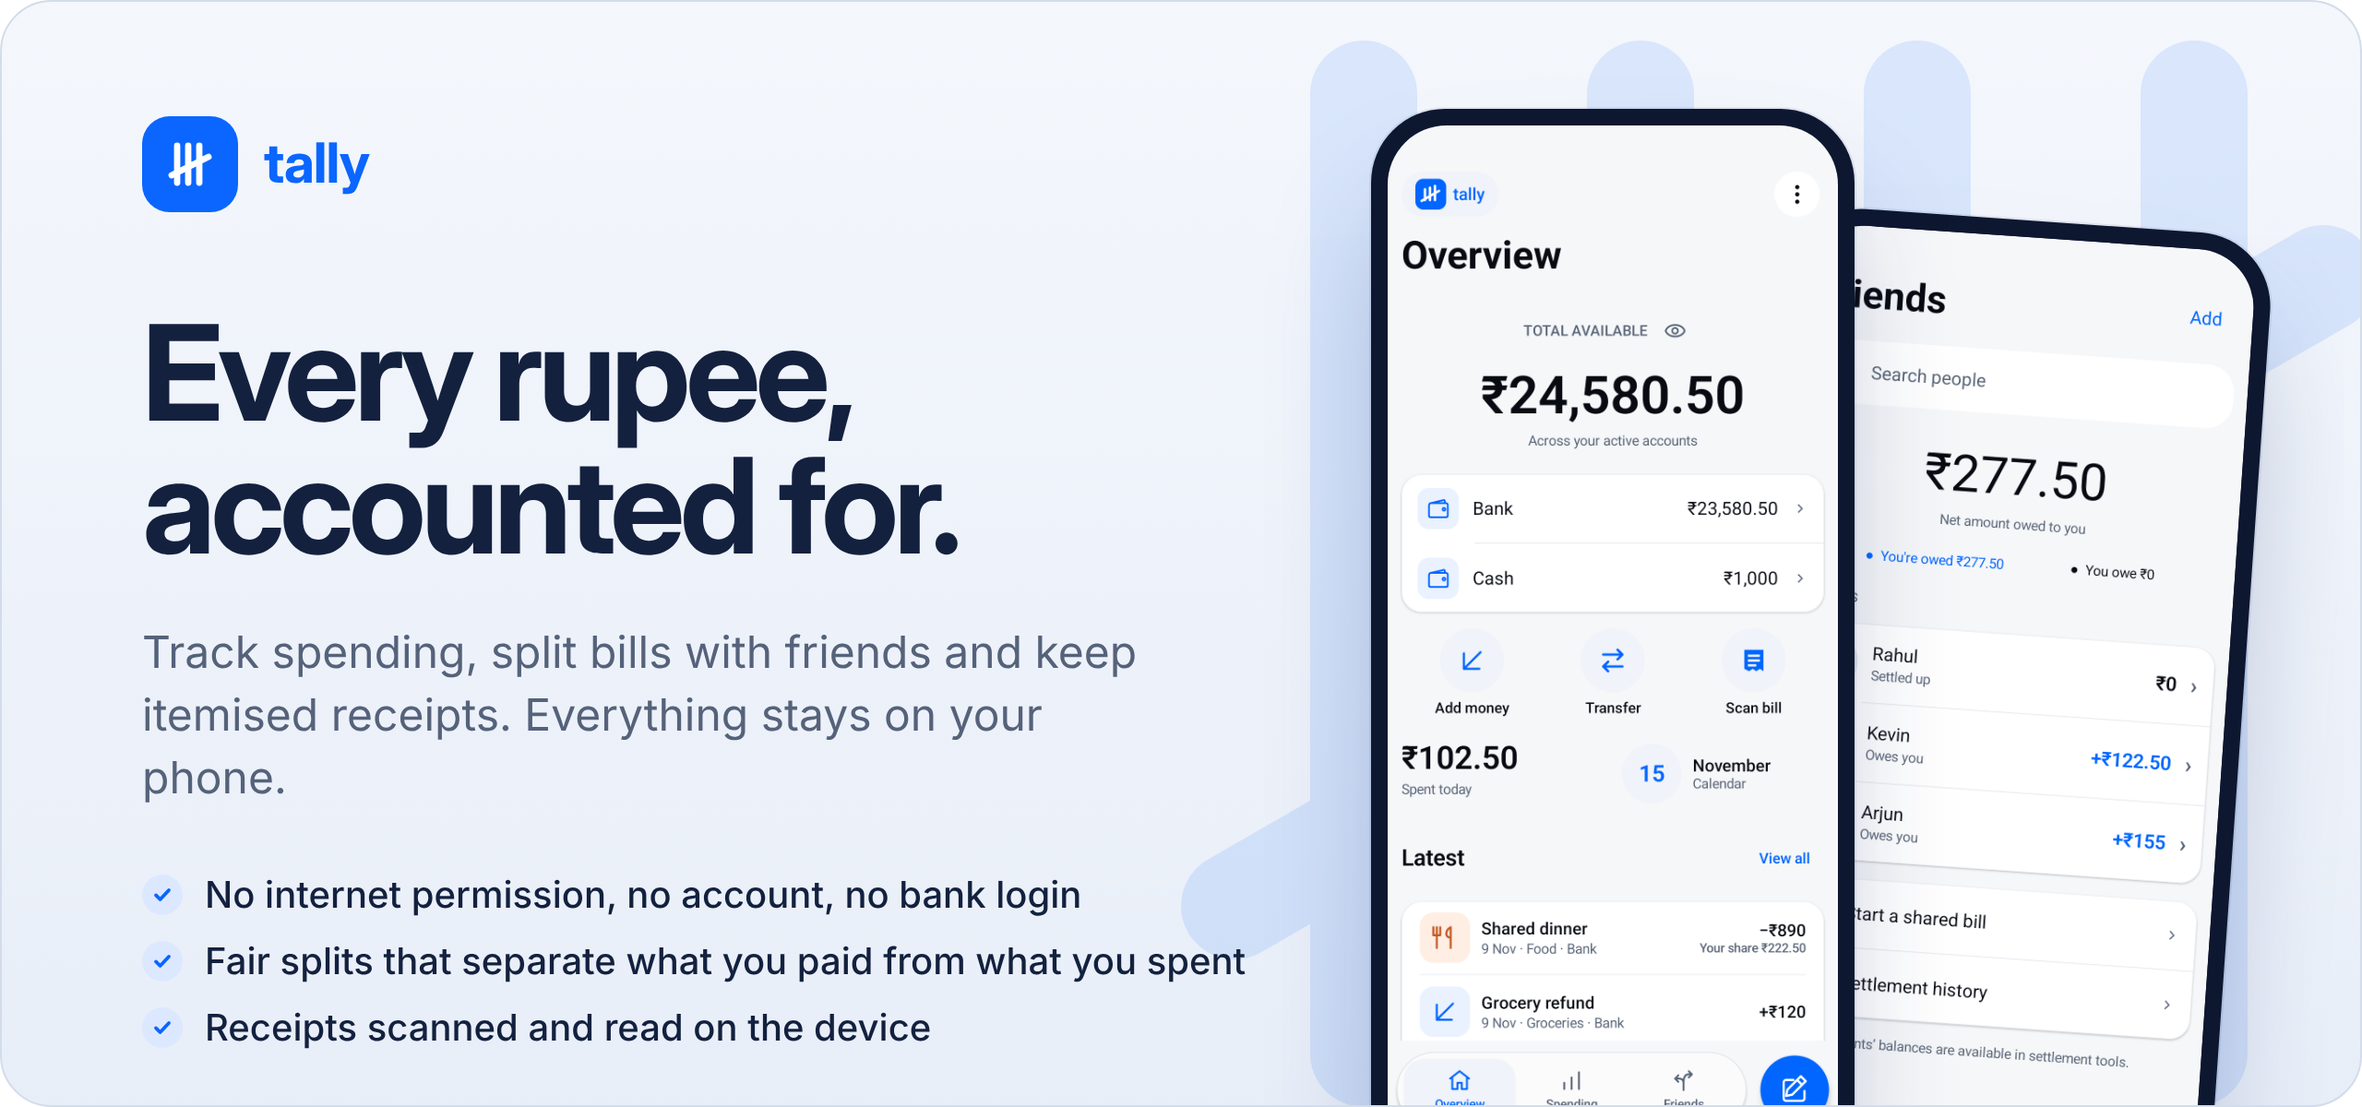
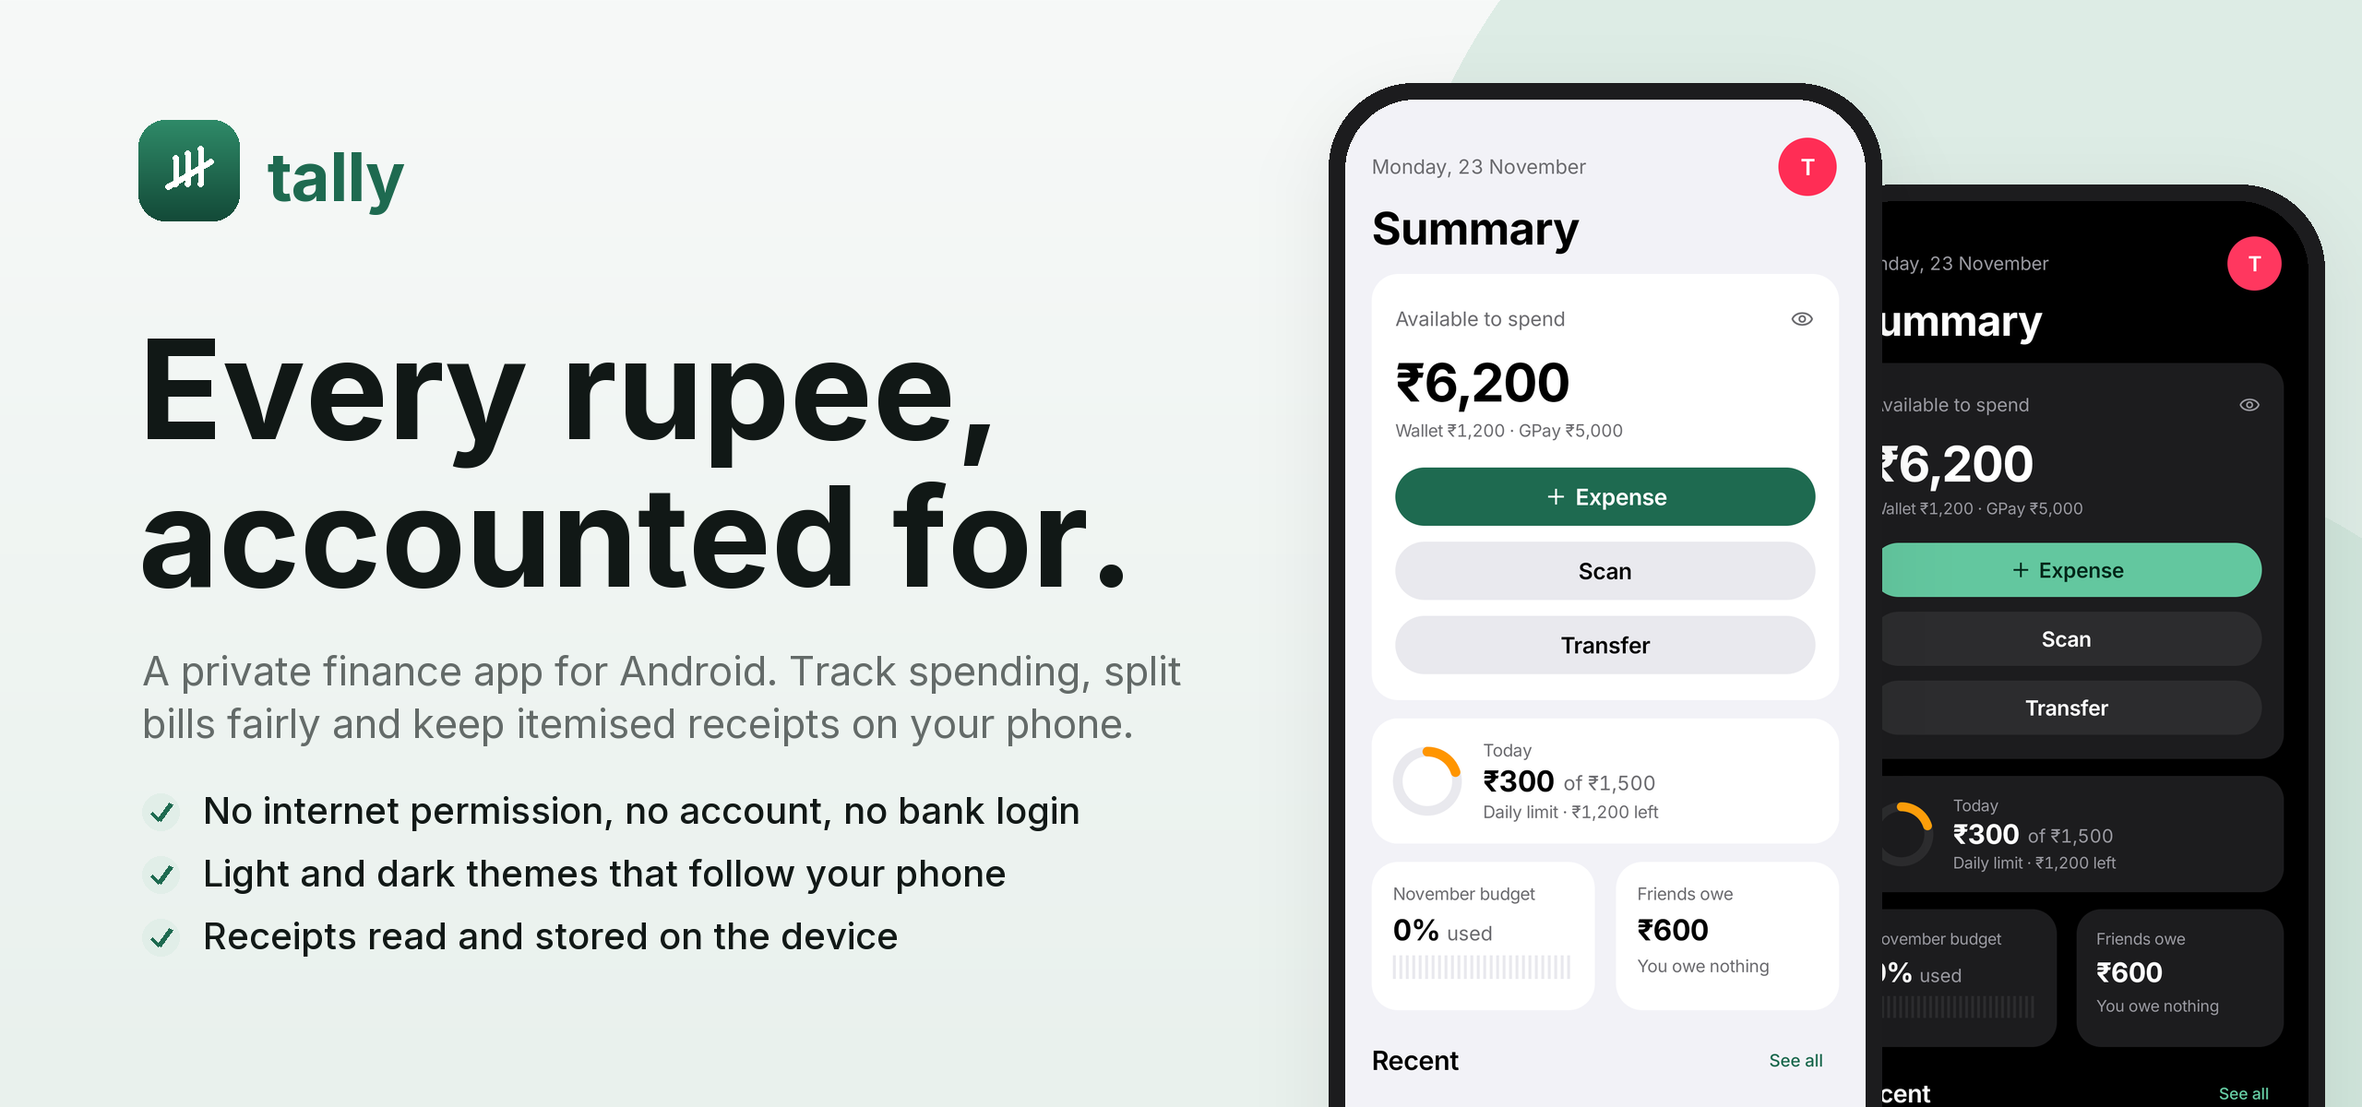
Revamp the README with graphics from the redesigned app
Rebuild the hero, showcase and shared-bill graphics from new emulator
captures of the iOS-style redesign, add a dark-theme graphic, recolour
the download button to the pine tint and rewrite the README in a more
professional structure without emoji.

Screenshot tests accept -e tallyDark true to render fixtures in the
dark theme, and add Summary and Spending captures with sample data.

diff --git a/app/src/androidTest/java/com/smartexpense/EditorialPreviewTheme.kt b/app/src/androidTest/java/com/smartexpense/EditorialPreviewTheme.kt
@@ -8,11 +8,17 @@ import androidx.compose.material3.Surface
 import androidx.compose.runtime.*
 import androidx.compose.ui.Modifier
 import androidx.activity.compose.LocalActivity
+import androidx.test.platform.app.InstrumentationRegistry
 import com.smartexpense.ui.*
 
-/** Match the production Activity's light system bars and safe drawing insets in isolated fixtures. */
+/** Run instrumented tests with -e tallyDark true to render fixtures in the dark theme. */
+val previewDark: Boolean get() = InstrumentationRegistry.getArguments().getString("tallyDark") == "true"
+
+/** Match the production Activity's system bars and safe drawing insets in isolated fixtures. */
 @Composable fun EditorialPreviewTheme(content:@Composable ()->Unit) {
     val activity=LocalActivity.current as? ComponentActivity
-    SideEffect {activity?.enableEdgeToEdge(statusBarStyle=SystemBarStyle.light(android.graphics.Color.TRANSPARENT,android.graphics.Color.TRANSPARENT),navigationBarStyle=SystemBarStyle.light(android.graphics.Color.TRANSPARENT,android.graphics.Color.TRANSPARENT))}
-    TrackerTheme {Surface(Modifier.fillMaxSize().windowInsetsPadding(WindowInsets.safeDrawing),color=Tokens.background) {content()}}
+    val dark=previewDark
+    val bars=if(dark) SystemBarStyle.dark(android.graphics.Color.TRANSPARENT) else SystemBarStyle.light(android.graphics.Color.TRANSPARENT,android.graphics.Color.TRANSPARENT)
+    SideEffect {activity?.enableEdgeToEdge(statusBarStyle=bars,navigationBarStyle=bars)}
+    TrackerTheme(darkTheme=dark) {Surface(Modifier.fillMaxSize().windowInsetsPadding(WindowInsets.safeDrawing),color=Tokens.background) {content()}}
 }

diff --git a/app/src/androidTest/java/com/smartexpense/ReferenceScreenshotsTest.kt b/app/src/androidTest/java/com/smartexpense/ReferenceScreenshotsTest.kt
@@ -3,6 +3,7 @@ package com.smartexpense
 import android.content.Context
 import android.graphics.Bitmap
 import android.os.ParcelFileDescriptor
+import androidx.compose.foundation.layout.padding
 import androidx.compose.runtime.*
 import androidx.compose.ui.platform.LocalDensity
 import androidx.compose.ui.platform.LocalFocusManager
@@ -113,6 +114,16 @@ class ReferenceScreenshotsTest {
         shell("cp ${file.absolutePath} /sdcard/Download/tally-exact-reference/$name.png")
     }
 
+    private val showcase get() = fixture.copy(
+        reportMonth = today.toString().take(7),
+        selectedReport = PeriodReport(842000, 4500000, mapOf("food" to 412000L, "travel" to 170000L, "shopping" to 260000L), emptyMap()),
+        budgets = listOf(Budget("all", today.toString().take(7), null, 1200000)))
+    @Test fun summary() {
+        render { androidx.compose.material3.Scaffold(bottomBar = { LedgerNavigation("home", {}) }) { padding ->
+            androidx.compose.foundation.layout.Box(androidx.compose.ui.Modifier.padding(padding)) { HomeScreen(showcase, { _, _ -> }, {}, {}, {}, {}) } } }
+        capture("summary")
+    }
+    @Test fun spending() { render { InsightsScreen(showcase, today.toString().take(7), {}, { _, _, _ -> }) }; capture("spending") }
     @Test fun accounts() { render { AccountsScreen(fixture, model, {}) }; capture("accounts") }
     @Test fun accountsLarge() { render(true) { AccountsScreen(fixture, model, {}) }; capture("accounts-320dp-2x") }
     @Test fun groups() {

diff --git a/README.md b/README.md
@@ -1,13 +1,11 @@
-<a href="https://github.com/zack005-design/Tally/releases/latest"><img src="docs/assets/readme-hero.png" width="100%" alt="Tally: Every rupee, accounted for. Track spending, split bills with friends and keep itemised receipts. Everything stays on your phone."></a>
-
-<h3 align="center">Every rupee, accounted for. Offline, private and on your phone.</h3>
+<a href="https://github.com/zack005-design/Tally/releases/latest"><img src="docs/assets/readme-hero.png" width="100%" alt="Tally: Every rupee, accounted for. The Summary screen in the light and dark themes."></a>
 
 <p align="center">
-  <a href="https://github.com/zack005-design/Tally/releases/latest"><img src="https://img.shields.io/github/v/release/zack005-design/Tally?label=release&color=0A66FF&style=flat-square" alt="Latest release"></a>
+  <a href="https://github.com/zack005-design/Tally/releases/latest"><img src="https://img.shields.io/github/v/release/zack005-design/Tally?include_prereleases&label=release&color=1E6A50&style=flat-square" alt="Latest release"></a>
   <a href="https://github.com/zack005-design/Tally/actions/workflows/android.yml"><img src="https://img.shields.io/github/actions/workflow/status/zack005-design/Tally/android.yml?branch=main&label=checks&style=flat-square" alt="Android checks"></a>
-  <img src="https://img.shields.io/badge/Android-8.0%2B-13213F?logo=android&logoColor=white&style=flat-square" alt="Android 8.0 or later">
-  <img src="https://img.shields.io/badge/internet%20permission-none-13213F?style=flat-square" alt="No internet permission">
-  <img src="https://img.shields.io/badge/theme-light%20%26%20dark-13213F?style=flat-square" alt="Light and dark themes">
+  <img src="https://img.shields.io/badge/Android-8.0%2B-1C1C1E?logo=android&logoColor=white&style=flat-square" alt="Android 8.0 or later">
+  <img src="https://img.shields.io/badge/Kotlin-Jetpack%20Compose-1C1C1E?logo=kotlin&logoColor=white&style=flat-square" alt="Kotlin and Jetpack Compose">
+  <img src="https://img.shields.io/badge/network-none-1C1C1E?style=flat-square" alt="No network access">
 </p>
 
 <p align="center">
@@ -15,79 +13,122 @@
 </p>
 
 <p align="center">
-  <a href="#highlights">Highlights</a>&nbsp;&nbsp;·&nbsp;&nbsp;<a href="#features">Features</a>&nbsp;&nbsp;·&nbsp;&nbsp;<a href="#privacy">Privacy</a>&nbsp;&nbsp;·&nbsp;&nbsp;<a href="#download">Download</a>&nbsp;&nbsp;·&nbsp;&nbsp;<a href="#build-from-source">Build</a>&nbsp;&nbsp;·&nbsp;&nbsp;<a href="docs/README.md">Guides</a>
+  <a href="#overview">Overview</a>&nbsp;&nbsp;&middot;&nbsp;&nbsp;<a href="#features">Features</a>&nbsp;&nbsp;&middot;&nbsp;&nbsp;<a href="#privacy">Privacy</a>&nbsp;&nbsp;&middot;&nbsp;&nbsp;<a href="#download">Download</a>&nbsp;&nbsp;&middot;&nbsp;&nbsp;<a href="#build-from-source">Build</a>&nbsp;&nbsp;&middot;&nbsp;&nbsp;<a href="docs/README.md">Documentation</a>
 </p>
 
 <br>
 
-Tally is a personal finance app for Android that works entirely offline. Record spending across your accounts, split shared bills fairly and turn paper or PDF receipts into itemised records. There's no sign-up, no bank connection and no internet permission, so your data never leaves your phone.
+## Overview
 
-<img src="docs/assets/readme-showcase.png" width="100%" alt="Four Tally screens: monthly spending by day and category, choosing a split method for a ₹900 bill, reviewing settlements before saving, and monthly budgets with progress bars.">
+Tally is a personal finance app for Android that runs entirely on your phone. It records spending across your accounts, splits shared bills fairly and turns paper or PDF receipts into itemised records. There is no sign-up, no bank connection and no internet permission.
 
-## Highlights
+<img src="docs/assets/readme-showcase.png" width="100%" alt="Four Tally screens in the light theme: Summary with available-to-spend and today's limit, choosing a split method for a ₹900 bill, reviewing settlements before saving, and monthly budgets with progress bars.">
 
 <table>
   <tr>
-    <td width="33%" valign="top"><b>Truly offline</b><br>No account, no cloud and no internet permission. Receipt reading and suggestions run on the device.</td>
-    <td width="33%" valign="top"><b>Fair splits</b><br>What you paid is kept apart from what you spent, so lending money never inflates your spending.</td>
-    <td width="33%" valign="top"><b>Fast entry</b><br>Type <code>coffee 80 cash</code>, reuse a favourite or tap the widget. You confirm every entry.</td>
-  </tr>
-  <tr>
-    <td valign="top"><b>Light and dark</b><br>Follows your phone's theme by default, or pick one under <b>Settings → Appearance</b>.</td>
-    <td valign="top"><b>Any screen</b><br>A side navigation rail in landscape, and layouts that hold up with large text.</td>
-    <td valign="top"><b>Your data, portable</b><br>CSV and PDF reports, plus password-encrypted backups you can restore on any phone.</td>
+    <td width="33%" valign="top">
+      <b>Private by design</b><br>
+      No account, no cloud and no network access. Receipt reading and suggestions run on the device.
+    </td>
+    <td width="33%" valign="top">
+      <b>Accurate shared spending</b><br>
+      What you paid is kept separate from what you spent, so covering friends never inflates your totals.
+    </td>
+    <td width="33%" valign="top">
+      <b>Quick to use</b><br>
+      Record an expense in seconds from Summary, a text command, a favourite or the home-screen widget.
+    </td>
   </tr>
 </table>
 
 ## Features
 
-| | Feature | What you can do |
-| --- | --- | --- |
-| 💳 | [Accounts and transactions](docs/features/everyday-money.md) | Track bank, cash, GPay and more. Record expenses, income, refunds and transfers, reconcile balances and add your own tags. |
-| 🤝 | [Shared bills](docs/features/shared-bills.md) | Split equally or by amount, percentage, shares or item, with several payers, partial repayments and running balances per friend. |
-| 🧾 | [Receipts](docs/features/receipts.md) | Scan a photo or PDF, check the recognised items and share an itemised receipt PDF with the original scan attached. |
-| 📊 | [Spending and planning](docs/features/spending-and-planning.md) | Daily and category views, a yearly summary, budgets with alerts, allowances, recurring drafts and savings goals. |
-| ⚡ | [Quick entry](docs/features/quick-entry.md) | Short text commands, recent repeats, favourites and a home-screen widget. |
-| 🧠 | [On-device suggestions](docs/features/on-device-ai.md) | In the AI edition, a small local model turns short commands into editable drafts. It never saves anything by itself. |
-| 📤 | [Reports and backups](docs/features/reports-and-backups.md) | Monthly CSV or PDF reports and encrypted backups. |
-| 🎨 | [Appearance](docs/features/appearance.md) | Light, dark or system theme. Shared receipts and reports always print on a white page. |
-| 🧮 | [Calculator](docs/features/calculator.md) | Splits, tax, tips, interest, statistics and conversions, kept apart from your records. |
+<table>
+  <tr>
+    <td width="50%" valign="top">
+      <h4><a href="docs/features/everyday-money.md">Accounts and transactions</a></h4>
+      Keep balances for bank accounts, cash, GPay and more. Record expenses, income, refunds and transfers, reconcile balances, tag entries and search by text or amount.
+    </td>
+    <td width="50%" valign="top">
+      <h4><a href="docs/features/shared-bills.md">Shared bills</a></h4>
+      Split equally or by amount, percentage, shares or item. Handle several payers, partial repayments and a running balance with each friend.
+    </td>
+  </tr>
+  <tr>
+    <td valign="top">
+      <h4><a href="docs/features/receipts.md">Receipts</a></h4>
+      Scan a photo or PDF, check the recognised items and save. Share a complete itemised receipt PDF with the original scan attached.
+    </td>
+    <td valign="top">
+      <h4><a href="docs/features/spending-and-planning.md">Spending and planning</a></h4>
+      A daily spending limit, category and calendar views, a yearly summary, monthly budgets with alerts, allowances, recurring drafts and savings goals.
+    </td>
+  </tr>
+  <tr>
+    <td valign="top">
+      <h4><a href="docs/features/quick-entry.md">Quick entry</a></h4>
+      Type <code>coffee 80 cash</code>, repeat a recent purchase, use favourites or the widget. Every entry is confirmed before it is saved.
+    </td>
+    <td valign="top">
+      <h4><a href="docs/features/on-device-ai.md">On-device suggestions</a></h4>
+      In the AI edition, a small model on your phone turns short commands into editable drafts. It never saves anything by itself.
+    </td>
+  </tr>
+  <tr>
+    <td valign="top">
+      <h4><a href="docs/features/reports-and-backups.md">Reports and backups</a></h4>
+      Export monthly reports and account lists as CSV or PDF, and create password-encrypted backups you can restore on any phone.
+    </td>
+    <td valign="top">
+      <h4><a href="docs/features/calculator.md">Calculator</a></h4>
+      Splits, tax, tips, interest, statistics and unit conversions, kept separate from your records.
+    </td>
+  </tr>
+</table>
 
-## Shared bills, done fairly
+## Shared bills, recorded correctly
 
-<img src="docs/assets/readme-split.png" width="100%" alt="A ₹900 dinner paid by you and split three ways: ₹300 counts as your spending and ₹600 is owed to you by Rahul and Ananya.">
+<img src="docs/assets/readme-split.png" width="100%" alt="A ₹900 dinner paid by you and split three ways: ₹300 counts as your spending, and Rahul and Ananya each owe you ₹300.">
 
-Your share counts as spending, and what friends owe you stays a balance. Repayments never look like income, and transfers between your own accounts are never counted as spending.
+Your share counts as spending, and the rest becomes a balance with each friend. Repayments are never treated as income, and transfers between your own accounts are never counted as spending.
+
+## Designed for every screen
+
+<img src="docs/assets/readme-dark.png" width="100%" alt="The Activity, Friends and Budgets screens in Tally's dark theme.">
+
+- **Light and dark themes.** Tally follows your phone's theme by default. Choose Light or Dark under **Settings &rarr; Appearance**. See the [appearance guide](docs/features/appearance.md).
+- **Familiar layout.** Grouped lists, clear typography and a floating tab bar for Summary, Activity, Spending and Split, with search one tap away.
+- **Adaptive layouts.** Narrow phones scale the layout so nothing is cut off. Landscape screens use a side navigation rail, and large text keeps controls on one row wherever they fit.
 
 ## Privacy
 
 | Protection | How it works |
 | --- | --- |
-| **Offline by design** | The app has no internet permission. Everything runs on the device. |
-| **No bank access** | Tally never reads your bank, payment apps, SMS or card details. |
-| **App lock** | Optionally lock Tally with your device PIN, pattern, password or biometrics. |
-| **Encrypted backups** | Backups are protected by your password, and Android cloud backup is turned off. |
-| **You choose what to share** | Exports happen only when you ask. Shared receipts leave out private notes and balances. |
+| **Offline by design** | The app has no internet permission. Receipt recognition, suggestions and calculations all run on the device. |
+| **No bank access** | Tally never reads your bank, payment apps, SMS messages or card details. You keep the balances yourself. |
+| **App lock** | Lock Tally with your device PIN, pattern, password or biometrics. |
+| **Encrypted backups** | Backups are protected by your password. Automatic Android cloud backup is turned off. |
+| **Sharing on your terms** | Reports and receipts are exported only when you ask. Shared receipts leave out private notes and account balances. |
 
-Read more in the [privacy guide](docs/features/privacy.md).
+More detail is in the [privacy guide](docs/features/privacy.md).
 
 ## Download
 
-The current version is **0.2.4**, for Android 8.0 and later. Both editions have the same finance and receipt features.
+The latest published version is **0.2.4**, for Android 8.0 and later. Tally comes in two editions with the same finance and receipt features.
 
 | Edition | Quick entry | APK |
 | --- | --- | --- |
 | **AI** | A local model suggests drafts, with rules as a fallback | [tally-0.2.4-ai-debug.apk](https://github.com/zack005-design/Tally/releases/download/v0.2.4-20261115/tally-0.2.4-ai-debug.apk) |
 | **Non-AI** | Rule-based parsing only | [tally-0.2.4-non-ai-debug.apk](https://github.com/zack005-design/Tally/releases/download/v0.2.4-20261115/tally-0.2.4-non-ai-debug.apk) |
 
-Both editions share one app ID, so you can switch between them without losing data. Make an encrypted backup before updating. Follow the [installation guide](docs/getting-started.md) for step-by-step instructions.
+Both editions share one app ID, so you can switch between them without losing data. Make an encrypted backup before updating, and follow the [installation guide](docs/getting-started.md) for step-by-step instructions.
 
 > [!NOTE]
-> Tally is in active development. These APKs are debug-signed test builds and aren't on the Play Store. The dark theme and adaptive navigation are on `main` and will ship in the next release.
+> Tally is in active development, and these APKs are debug-signed test builds that are not on the Play Store. The redesign, dark theme and adaptive layouts shown above are on `main` and will be included in the next release. See the [changelog](CHANGELOG.md).
 
 ## Build from source
 
-Kotlin, Jetpack Compose, Room and Hilt, targeting Android 17 (API 37).
+Tally is written in Kotlin with Jetpack Compose, Room and Hilt, and targets Android 17 (API 37).
 
 ```bash
 ./gradlew :app:assembleDebug                      # AI edition
@@ -97,4 +138,12 @@ Kotlin, Jetpack Compose, Room and Hilt, targeting Android 17 (API 37).
 
 ## Documentation
 
-[Installation guide](docs/getting-started.md)&nbsp;&nbsp;·&nbsp;&nbsp;[User guides](docs/README.md)&nbsp;&nbsp;·&nbsp;&nbsp;[Screen gallery](docs/screenshots/all-screens/README.md)&nbsp;&nbsp;·&nbsp;&nbsp;[Changelog](CHANGELOG.md)&nbsp;&nbsp;·&nbsp;&nbsp;[Contributing](CONTRIBUTING.md)&nbsp;&nbsp;·&nbsp;&nbsp;[Report an issue](https://github.com/zack005-design/Tally/issues/new/choose)
+| Guide | Description |
+| --- | --- |
+| [Installation guide](docs/getting-started.md) | Install, update and switch editions safely |
+| [User guides](docs/README.md) | Every feature, step by step |
+| [Screen gallery](docs/screenshots/all-screens/README.md) | Captures of every screen |
+| [Changelog](CHANGELOG.md) | What changed in each release |
+| [Contributing](CONTRIBUTING.md) | How to propose and test changes |
+
+Found a problem? [Report an issue](https://github.com/zack005-design/Tally/issues/new/choose).
